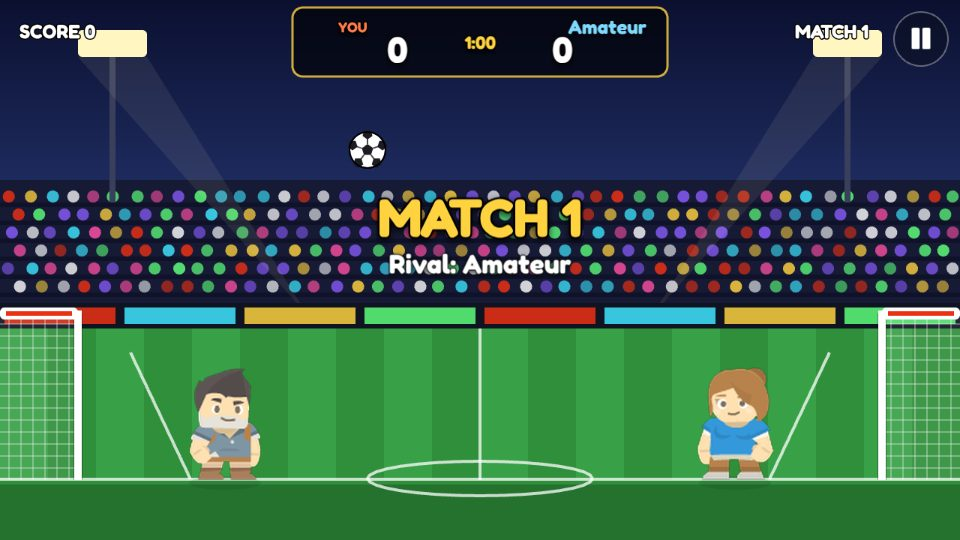
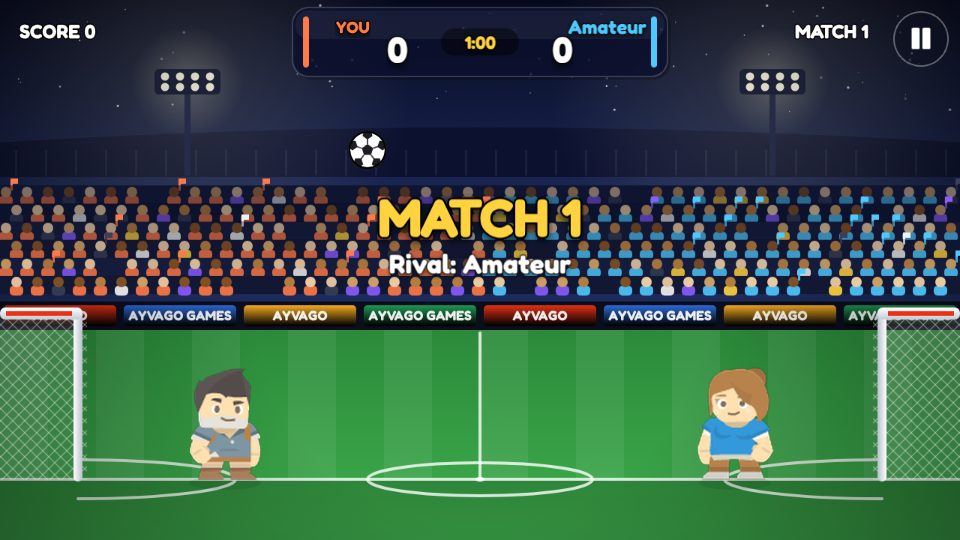
Head Soccer: a lit stadium, a living crowd and juicier hits
- Stadium painted on canvas:
  - night sky with stars and the stadium roof;
  - floodlight towers moved clear of the HUD's corners, with soft glow;
  - AYVAGO ad boards and striped grass;
  - side-view lines: centre circle and arcs before both goals;
  - a vignette.
- A crowd in the stands, fans in each side's colour (orange left,
  cyan right) with flags. Camera flashes twinkle in the stands.
- On a goal the crowd jumps, a storm of flashes goes off and the
  net shakes.
- Goals with depth: shaded diamond-mesh net, rounded posts and
  crossbar.
- Scoreboard as a glass panel with each side's colour stripe and the
  clock in a pill.
- A ring of light on every kick (in the kicker's colour) and header,
  and dust when a player lands.
- The stadium sits below depth 0, so the menu's title and buttons stay
  on top. Version 1.1.0, store art regenerated.

Claude-Session: https://claude.ai/code/session_0175vXZr811A8hQZq6oHnsLr

diff --git a/games/head-soccer/art.ts b/games/head-soccer/art.ts
@@ -36,58 +36,142 @@ export function makeTextures(scene: Phaser.Scene): void {
   g.destroy();
 }
 
-/** Stadium, pitch and both goals (the nets are drawn over the players later by `drawNets`). */
-export function drawPitch(scene: Phaser.Scene): void {
-  const g = scene.add.graphics().setDepth(0);
-  // night sky and stands
-  g.fillGradientStyle(0x0b1030, 0x0b1030, 0x24346e, 0x24346e, 1).fillRect(0, 0, W, 330);
-  g.fillStyle(0x161a35, 1).fillRect(0, 240, W, 170);
-  // crowd: rows of coloured heads
-  const cols = [0xec3013, 0xffd23f, 0x3ee6ff, 0xffffff, 0x5dff7a, 0xff4fa3, 0x8b5cff];
-  let seed = 7;
-  const rnd = () => ((seed = (seed * 16807) % 2147483647) / 2147483647);
-  for (let row = 0; row < 6; row++) {
-    const y = 262 + row * 24;
-    g.fillStyle(0x0f1228, 1).fillRect(0, y + 8, W, 6);
-    for (let x = 10 + (row % 2) * 14; x < W; x += 28) {
-      g.fillStyle(cols[Math.floor(rnd() * cols.length)], 0.55 + rnd() * 0.3).fillCircle(x + rnd() * 6, y, 8);
+/** Team colours: you (left, orange) and the rival (right, cyan); the fans wear them too. */
+export const TEAM = ['#ff7a4a', '#4fc8ff'] as const;
+
+function canvas(scene: Phaser.Scene, key: string, w: number, h: number, draw: (c: CanvasRenderingContext2D) => void): void {
+  if (scene.textures.exists(key)) return;
+  const tex = scene.textures.createCanvas(key, w, h);
+  if (!tex) return;
+  draw(tex.getContext());
+  tex.refresh();
+}
+
+function seeded(seed: number): () => number {
+  let a = seed >>> 0;
+  return () => {
+    a = (a + 0x6d2b79f5) >>> 0;
+    let t = Math.imul(a ^ (a >>> 15), a | 1);
+    t ^= t + Math.imul(t ^ (t >>> 7), t | 61);
+    return ((t ^ (t >>> 14)) >>> 0) / 4294967296;
+  };
+}
+
+/** Night sky, roof, floodlights and the pitch (one canvas); the crowd is its own layer. */
+function paintStadium(c: CanvasRenderingContext2D): void {
+  const r = seeded(9);
+  const sky = c.createLinearGradient(0, 0, 0, 300);
+  sky.addColorStop(0, '#060a1f'); sky.addColorStop(1, '#1d2a5c');
+  c.fillStyle = sky; c.fillRect(0, 0, W, 420);
+  for (let k = 0; k < 70; k++) {
+    c.fillStyle = `rgba(255,255,255,${0.25 + r() * 0.6})`;
+    c.beginPath(); c.arc(r() * W, r() * 150, 0.6 + r() * 1.3, 0, Math.PI * 2); c.fill();
+  }
+  // stadium roof edge
+  c.fillStyle = '#0c1130';
+  c.beginPath(); c.moveTo(0, 190); c.quadraticCurveTo(W / 2, 150, W, 190); c.lineTo(W, 236); c.lineTo(0, 236); c.closePath(); c.fill();
+  c.fillStyle = 'rgba(255,255,255,0.06)';
+  for (let x = 20; x < W; x += 40) c.fillRect(x, 200, 3, 34);
+  // floodlight towers (clear of the HUD in the top corners) and their glow
+  for (const x of [250, W - 250]) {
+    const g = c.createRadialGradient(x, 110, 0, x, 110, 300);
+    g.addColorStop(0, 'rgba(255,248,210,0.38)'); g.addColorStop(0.25, 'rgba(255,248,210,0.12)'); g.addColorStop(1, 'rgba(255,248,210,0)');
+    c.fillStyle = g; c.fillRect(0, 0, W, 460);
+    c.fillStyle = '#2b3152'; c.fillRect(x - 4, 124, 8, 110);
+    c.fillStyle = '#20263f'; c.beginPath(); c.roundRect(x - 44, 92, 88, 34, 6); c.fill();
+    for (let i = 0; i < 4; i++) for (let j = 0; j < 2; j++) {
+      c.fillStyle = '#fffbe4'; c.beginPath(); c.arc(x - 30 + i * 20, 102 + j * 14, 5.5, 0, Math.PI * 2); c.fill();
     }
   }
-  // floodlights
-  for (const x of [150, W - 150]) {
-    g.fillStyle(0x3a3f5c, 1).fillRect(x - 4, 70, 8, 200);
-    g.fillStyle(0xfff6c2, 1).fillRoundedRect(x - 46, 40, 92, 36, 6);
-    g.fillStyle(0xfff6c2, 0.08).fillTriangle(x - 46, 76, x + 46, 76, x + (x < W / 2 ? 260 : -260), 420);
-  }
   // advertising boards
-  g.fillStyle(0x101422, 1).fillRect(0, 404, W, 34);
-  for (let x = 0; x < W; x += 160) g.fillStyle([0xec3013, 0x3ee6ff, 0xffd23f, 0x5dff7a][(x / 160) % 4], 0.85).fillRect(x + 6, 410, 148, 22);
-  // grass with mowing stripes
-  g.fillStyle(0x2f8f3a, 1).fillRect(0, 438, W, 282);
-  for (let k = 0; k < 10; k++) g.fillStyle(0x38a046, 1).fillRect(k * 128, 438, 64, GROUND - 438);
-  g.fillStyle(0x24722e, 1).fillRect(0, GROUND, W, 720 - GROUND);
-  g.fillStyle(0x2f8f3a, 1).fillRect(0, GROUND, W, 6);
-  // lines
-  g.lineStyle(4, 0xffffff, 0.75).lineBetween(W / 2, 438, W / 2, GROUND);
-  g.strokeEllipse(W / 2, GROUND - 2, 300, 46);
-  g.lineBetween(0, GROUND - 1, W, GROUND - 1);
-  g.lineBetween(GOAL_W + 150, GROUND - 1, GOAL_W + 70, 470).lineBetween(W - GOAL_W - 150, GROUND - 1, W - GOAL_W - 70, 470);
+  c.fillStyle = '#0a0d1c'; c.fillRect(0, 402, W, 38);
+  const boards = ['#ec3013', '#2d6cdf', '#ffb020', '#1f9d55'];
+  for (let x = 0, k = 0; x < W; x += 160, k++) {
+    const b = c.createLinearGradient(0, 408, 0, 434);
+    b.addColorStop(0, boards[k % 4]); b.addColorStop(1, '#000000');
+    c.globalAlpha = 0.92; c.fillStyle = b; c.beginPath(); c.roundRect(x + 5, 407, 150, 28, 5); c.fill(); c.globalAlpha = 1;
+    c.fillStyle = 'rgba(255,255,255,0.92)'; c.font = '700 18px Fredoka, Nunito, sans-serif'; c.textAlign = 'center'; c.textBaseline = 'middle';
+    c.fillText(k % 2 ? 'AYVAGO GAMES' : 'AYVAGO', x + 80, 422);
+  }
+  // grass: mown stripes and a soft light from the floodlights
+  const grass = c.createLinearGradient(0, 440, 0, 720);
+  grass.addColorStop(0, '#2b8a3a'); grass.addColorStop(1, '#3fae4d');
+  c.fillStyle = grass; c.fillRect(0, 440, W, 280);
+  for (let k = 0; k < 10; k++) { c.fillStyle = 'rgba(255,255,255,0.07)'; c.fillRect(k * 128, 440, 64, GROUND - 440); }
+  c.fillStyle = 'rgba(0,0,0,0.18)'; c.fillRect(0, GROUND, W, 720 - GROUND);
+  // lines: touchline, halfway line, centre circle and the arcs before both goals
+  c.strokeStyle = 'rgba(255,255,255,0.8)'; c.lineWidth = 4; c.lineCap = 'round';
+  c.beginPath(); c.moveTo(0, GROUND - 1); c.lineTo(W, GROUND - 1); c.stroke();
+  c.beginPath(); c.moveTo(W / 2, 444); c.lineTo(W / 2, GROUND); c.stroke();
+  c.beginPath(); c.ellipse(W / 2, GROUND - 1, 150, 22, 0, Math.PI, Math.PI * 2); c.stroke();
+  c.beginPath(); c.ellipse(W / 2, GROUND - 1, 150, 22, 0, 0, Math.PI); c.stroke();
+  c.fillStyle = '#ffffff'; c.beginPath(); c.ellipse(W / 2, GROUND - 1, 7, 3, 0, 0, Math.PI * 2); c.fill();
+  for (const left of [true, false]) {
+    const gx = left ? GOAL_W : W - GOAL_W;
+    c.beginPath(); c.ellipse(gx, GROUND - 1, 210, 26, 0, left ? -Math.PI / 2 : Math.PI / 2, left ? Math.PI / 2 : Math.PI * 1.5, false); c.stroke();
+  }
+  // vignette
+  const v = c.createRadialGradient(W / 2, 400, 300, W / 2, 400, 820);
+  v.addColorStop(0, 'rgba(0,0,0,0)'); v.addColorStop(1, 'rgba(0,0,0,0.42)');
+  c.fillStyle = v; c.fillRect(0, 0, W, 720);
+}
+
+/** The crowd in the stands: the fans on each half wear their side's colour. */
+function paintCrowd(c: CanvasRenderingContext2D): void {
+  const r = seeded(4);
+  const skins = ['#f5d0a9', '#e0ac69', '#c68642', '#8d5524', '#ffdbac'];
+  const others = ['#f3f2f2', '#ffd23f', '#3a3f5a', '#8b5cff'];
+  for (let row = 0; row < 6; row++) {
+    const y = 26 + row * 24;
+    c.fillStyle = row % 2 ? '#141936' : '#181e40';
+    c.fillRect(0, y - 14, W, 24);
+    for (let x = 8 + (row % 2) * 14; x < W; x += 28) {
+      if (r() < 0.05) continue;
+      const side = x < W / 2 ? 0 : 1;
+      const shirt = r() < 0.75 ? TEAM[side] : others[Math.floor(r() * others.length)];
+      c.fillStyle = shirt;
+      c.beginPath(); c.roundRect(x - 9, y - 1, 18, 13, 5); c.fill();
+      c.fillStyle = skins[Math.floor(r() * skins.length)];
+      c.beginPath(); c.arc(x, y - 6, 7, 0, Math.PI * 2); c.fill();
+      if (r() < 0.12) { c.fillStyle = shirt; c.fillRect(x + 6, y - 22, 3, 14); c.fillRect(x + 6, y - 24, 10, 7); }   // a flag
+    }
+    c.fillStyle = `rgba(6,10,31,${0.5 * (1 - row / 6)})`;
+    c.fillRect(0, y - 15, W, 26);
+  }
+}
+
+/** Stadium, pitch and the crowd. Returns the crowd so a goal can make it jump. */
+export function drawPitch(scene: Phaser.Scene): Phaser.GameObjects.Image {
+  canvas(scene, 'hs-stadium', W, 720, paintStadium);
+  canvas(scene, 'hs-crowd', W, 166, paintCrowd);
+  // below depth 0, so the menu's own title and buttons always sit on top
+  scene.add.image(0, 0, 'hs-stadium').setOrigin(0).setDepth(-3);
+  return scene.add.image(0, 236, 'hs-crowd').setOrigin(0).setDepth(-2);
 }
 
 /** Nets and posts: drawn above the players so the ball looks inside the goal. */
-export function drawNets(scene: Phaser.Scene, depth: number): void {
-  const g = scene.add.graphics().setDepth(depth);
-  for (const left of [true, false]) {
-    const x0 = left ? 0 : W - GOAL_W, x1 = left ? GOAL_W : W;
-    g.fillStyle(0xffffff, 0.08).fillRect(x0, GOAL_TOP, GOAL_W, GROUND - GOAL_TOP);
-    g.lineStyle(2, 0xffffff, 0.32);
-    for (let x = x0 + 12; x < x1; x += 16) g.lineBetween(x, GOAL_TOP, x, GROUND);
-    for (let y = GOAL_TOP + 14; y < GROUND; y += 16) g.lineBetween(x0, y, x1, y);
-    // crossbar and front post
-    const front = left ? GOAL_W : W - GOAL_W;
-    g.fillStyle(0x000000, 0.35).fillRect(front - 6, GOAL_TOP, 12, GROUND - GOAL_TOP);
-    g.fillStyle(0xffffff, 1).fillRect(front - 5, GOAL_TOP - 4, 10, GROUND - GOAL_TOP + 4);
-    g.fillStyle(0xffffff, 1).fillRoundedRect(x0, GOAL_TOP - 8, GOAL_W, 16, 6);
-    g.fillStyle(0xec3013, 1).fillRect(x0 + 8, GOAL_TOP - 3, GOAL_W - 16, 6);
-  }
+export function drawNets(scene: Phaser.Scene, depth: number): Phaser.GameObjects.Image[] {
+  canvas(scene, 'hs-net', GOAL_W + 12, GROUND - GOAL_TOP + 16, (c) => {
+    const h = GROUND - GOAL_TOP, x0 = 0;
+    // net: shaded inside, a diamond mesh
+    const g = c.createLinearGradient(0, 8, 0, h + 8);
+    g.addColorStop(0, 'rgba(255,255,255,0.14)'); g.addColorStop(1, 'rgba(255,255,255,0.05)');
+    c.fillStyle = g; c.fillRect(x0, 8, GOAL_W, h);
+    c.strokeStyle = 'rgba(255,255,255,0.35)'; c.lineWidth = 1.5;
+    for (let k = -h; k < GOAL_W + h; k += 16) {
+      c.beginPath(); c.moveTo(x0 + k, 8); c.lineTo(x0 + k + h, 8 + h); c.stroke();
+      c.beginPath(); c.moveTo(x0 + k + h, 8); c.lineTo(x0 + k, 8 + h); c.stroke();
+    }
+    // front post, rounded and shaded
+    const px = GOAL_W - 6;
+    const pg = c.createLinearGradient(px, 0, px + 12, 0);
+    pg.addColorStop(0, '#ffffff'); pg.addColorStop(1, '#b8bfcc');
+    c.fillStyle = pg; c.beginPath(); c.roundRect(px, 2, 12, h + 8, 6); c.fill();
+    // crossbar with the red stripe
+    const cg = c.createLinearGradient(0, 0, 0, 16);
+    cg.addColorStop(0, '#ffffff'); cg.addColorStop(1, '#c4cad6');
+    c.fillStyle = cg; c.beginPath(); c.roundRect(0, 0, GOAL_W + 6, 16, 7); c.fill();
+    c.fillStyle = '#ec3013'; c.fillRect(8, 5, GOAL_W - 16, 6);
+  });
+  return [true, false].map((left) => scene.add.image(left ? 0 : W, GOAL_TOP - 8, 'hs-net').setOrigin(left ? 0 : 1, 0).setFlipX(!left).setDepth(depth));
 }

diff --git a/games/head-soccer/PlayScene.ts b/games/head-soccer/PlayScene.ts
@@ -7,7 +7,7 @@ import {
   W, GROUND, GOAL_W, GOAL_TOP, BALL_R, CHAR_SCALE, KICK_ON, KICK_POSE_END, AI_LEVELS,
   footOffset, newWorld, newPlayer, resetPlayers, dropBall, step, think, movePlayer, separate, type World, type Input, type Events, type Player,
 } from './sim';
-import { makeTextures, drawPitch, drawNets } from './art';
+import { makeTextures, drawPitch, drawNets, TEAM } from './art';
 
 const MATCH_S = 60;
 const SEND_MS = 50;              // ~20 messages per second each way
@@ -88,6 +88,11 @@ export class PlayScene extends ArcadeScene {
   // drawing
   private sprites: Phaser.GameObjects.Image[] = [];
   private shadows: Phaser.GameObjects.Ellipse[] = [];
+  private crowd!: Phaser.GameObjects.Image;
+  private nets: Phaser.GameObjects.Image[] = [];
+  private flashes!: Phaser.GameObjects.Graphics;
+  private sparks: { x: number; y: number; life: number }[] = [];
+  private wasGround = [true, true];
   private ball!: Phaser.GameObjects.Image;
   private ballShadow!: Phaser.GameObjects.Ellipse;
   private trail!: Phaser.GameObjects.Particles.ParticleEmitter;
@@ -119,7 +124,9 @@ export class PlayScene extends ArcadeScene {
     this.lastEv = []; this.lastGoals = 0; this.walkT = [0, 0]; this.lastTick = -1;
     this.sprites = []; this.shadows = []; this.controls = undefined;
 
-    drawPitch(this);
+    this.crowd = drawPitch(this);
+    this.flashes = this.add.graphics().setDepth(-1);
+    this.sparks = []; this.wasGround = [true, true];
     for (let i = 0; i < 2; i++) {
       this.shadows.push(this.add.ellipse(0, GROUND + 4, 96, 18, 0x000000, 0.3).setDepth(2));
       this.sprites.push(this.add.image(0, GROUND, 'p1-stand').setOrigin(0.5, CHARACTER_FRAME.originY).setScale(CHAR_SCALE).setDepth(10 + i));
@@ -130,14 +137,20 @@ export class PlayScene extends ArcadeScene {
       speed: 0, lifespan: 220, scale: { start: 2.6, end: 0 }, alpha: { start: 0.5, end: 0 }, tint: 0xffd23f, frequency: 18, emitting: false,
     }).setDepth(14);
     this.ball = this.add.image(W / 2, 200, 'hs-ball').setDepth(15);
-    drawNets(this, 20);
+    this.nets = drawNets(this, 20);
 
     // scoreboard
+    // scoreboard: a glass panel with each side's colour, the clock in a pill between the scores
     const sb = this.add.graphics().setDepth(30);
-    sb.fillStyle(0x000000, 0.6).fillRoundedRect(W / 2 - 250, 10, 500, 92, 14);
-    sb.lineStyle(3, 0xffd23f, 0.8).strokeRoundedRect(W / 2 - 250, 10, 500, 92, 14);
-    txt(this, W / 2 - 170, 36, t('you'), { title: true, size: 16, color: '#ff7a4a' }).setDepth(31);
-    this.nameThem = txt(this, W / 2 + 170, 36, '', { size: 22, color: '#7fd8ff' }).setDepth(31);
+    sb.fillStyle(0x000000, 0.28).fillRoundedRect(W / 2 - 246, 14, 500, 92, 22);
+    sb.fillStyle(0x0b1030, 0.78).fillRoundedRect(W / 2 - 250, 10, 500, 92, 22);
+    sb.fillStyle(0xffffff, 0.06).fillRoundedRect(W / 2 - 246, 14, 492, 38, 18);
+    sb.fillStyle(Phaser.Display.Color.HexStringToColor(TEAM[0]).color, 1).fillRoundedRect(W / 2 - 236, 22, 8, 68, 4);
+    sb.fillStyle(Phaser.Display.Color.HexStringToColor(TEAM[1]).color, 1).fillRoundedRect(W / 2 + 228, 22, 8, 68, 4);
+    sb.fillStyle(0x000000, 0.45).fillRoundedRect(W / 2 - 52, 38, 104, 36, 18);
+    sb.lineStyle(2, 0xffffff, 0.18).strokeRoundedRect(W / 2 - 250, 10, 500, 92, 22);
+    txt(this, W / 2 - 170, 36, t('you'), { title: true, size: 18, color: TEAM[0] }).setDepth(31);
+    this.nameThem = txt(this, W / 2 + 170, 36, '', { size: 22, color: TEAM[1] }).setDepth(31);
     this.scoreMe = txt(this, W / 2 - 110, 66, '0', { title: true, size: 40, color: '#ffffff' }).setDepth(31);
     this.scoreThem = txt(this, W / 2 + 110, 66, '0', { title: true, size: 40, color: '#ffffff' }).setDepth(31);
     this.clockText = txt(this, W / 2, 56, '1:00', { title: true, size: 24, color: '#ffd23f' }).setDepth(31);
@@ -312,6 +325,7 @@ export class PlayScene extends ArcadeScene {
   // ---------------------------------------------------------------- loop
   updateGame(_time: number, delta: number): void {
     const dt = delta / 1000;
+    this.drawFlashes(dt);
     const local = this.readInput();
     if (this.online && !this.host) { this.guestUpdate(local, dt); return; }
 
@@ -414,6 +428,9 @@ export class PlayScene extends ArcadeScene {
       // the frame is centred on the feet, so flipping it mirrors the kick for a player facing left
       s.setTexture(`${prefix}-${pose}`).setPosition(p.x, p.y + hop).setFlipX(p.face < 0);
       s.setAngle(p.ground || kicking ? 0 : Phaser.Math.Clamp(p.vx * 0.012, -6, 6));
+      // dust when a player lands
+      if (p.ground && !this.wasGround[i]) this.dust(p.x, 10);
+      this.wasGround[i] = p.ground;
       const sh = this.shadows[i];
       const air = Math.max(0, GROUND - p.y);
       sh.setPosition(p.x, GROUND + 4).setScale(Math.max(0.4, 1 - air / 400)).setAlpha(0.3 * Math.max(0.3, 1 - air / 300));
@@ -456,11 +473,54 @@ export class PlayScene extends ArcadeScene {
     this.tweens.add({ targets: [this.banner, this.sub], alpha: 0, duration: 250, onComplete: () => { this.banner.setVisible(false); this.sub.setVisible(false); } });
   }
 
+  /** A ring of light where the ball was struck. */
+  private impact(x: number, y: number, color: number, k = 1): void {
+    const ring = this.add.graphics().setDepth(16).setPosition(x, y);
+    ring.lineStyle(5, color, 0.9).strokeCircle(0, 0, 18);
+    this.tweens.add({ targets: ring, scale: 2.6 * k, alpha: 0, duration: 260, ease: 'Quad.easeOut', onComplete: () => ring.destroy() });
+    const glow = this.add.image(x, y, 'hs-dot').setDepth(16).setScale(6 * k).setTint(0xffffff).setAlpha(0.8).setBlendMode(Phaser.BlendModes.ADD);
+    this.tweens.add({ targets: glow, scale: 1, alpha: 0, duration: 200, onComplete: () => glow.destroy() });
+  }
+
+  /** A puff of dust at a player's feet. */
+  private dust(x: number, n: number): void {
+    for (let k = 0; k < n; k++) {
+      const d = this.add.circle(x + rng.int(-24, 24), GROUND - 2, rng.int(4, 9), 0xd8f0c8, 0.55).setDepth(9);
+      this.tweens.add({ targets: d, x: d.x + rng.int(-40, 40), y: d.y - rng.int(6, 22), alpha: 0, scale: 1.8, duration: rng.int(320, 520), ease: 'Quad.easeOut', onComplete: () => d.destroy() });
+    }
+  }
+
+  /** Camera flashes in the stands: a few now and then, a storm after a goal. */
+  private crowdFlash(n: number): void {
+    for (let k = 0; k < n; k++) this.sparks.push({ x: rng.int(10, W - 10), y: rng.int(250, 396), life: 1 + Math.random() * 0.5 });
+  }
+
+  private drawFlashes(dt: number): void {
+    if (Math.random() < dt * 2.5) this.crowdFlash(1);
+    const g = this.flashes;
+    g.clear();
+    for (const f of this.sparks) {
+      f.life -= dt * 3.5;
+      if (f.life <= 0) continue;
+      const a = Math.min(1, f.life);
+      g.fillStyle(0xffffff, 0.22 * a).fillCircle(f.x, f.y + (this.crowd.y - 236), 10 * a);
+      g.fillStyle(0xffffff, a).fillCircle(f.x, f.y + (this.crowd.y - 236), 2.5);
+    }
+    this.sparks = this.sparks.filter((f) => f.life > 0);
+  }
+
   private goalFx(mine: boolean, x: number): void {
     const gx = x < W / 2 ? GOAL_W / 2 : W - GOAL_W / 2;
     burst(this, gx, (GOAL_TOP + GROUND) / 2, mine ? [0xffd23f, 0xff7a4a, 0xffffff] : [0x3ee6ff, 0xffffff], 50, 520);
     shake(this, 0.02, 400);
     flash(this, mine ? 0xffd23f : 0x3ee6ff, 160);
+    // the net shakes, the crowd jumps and a storm of camera flashes goes off
+    const net = this.nets[x < W / 2 ? 0 : 1];
+    if (net) { this.tweens.killTweensOf(net); net.setX(x < W / 2 ? 0 : W); this.tweens.add({ targets: net, x: net.x + (x < W / 2 ? -7 : 7), duration: 60, yoyo: true, repeat: 5 }); }
+    this.tweens.killTweensOf(this.crowd);
+    this.crowd.setY(236);
+    this.tweens.add({ targets: this.crowd, y: 228, duration: 140, yoyo: true, repeat: 5, ease: 'Sine.easeOut' });
+    this.crowdFlash(60);
     this.sfx(mine ? 'goal' : 'concede', { volume: 0.75, exact: true });
     this.showBanner(t('goalBanner'), mine ? '#ffd23f' : '#7fd8ff', mine ? t('goalYou') : t('goalThem'));
     this.time.delayedCall(1700, () => { if (this.phase !== 'end' && !this.isOver) this.hideBanner(); });
@@ -483,12 +543,13 @@ export class PlayScene extends ArcadeScene {
       if (grew(i)) {
         this.sfxAt('kick', bx, { volume: 0.8 });
         burst(this, bx, by, [0xffffff, 0xffd23f], 14, 300);
+        this.impact(bx, by, Phaser.Display.Color.HexStringToColor(TEAM[local] ?? TEAM[0]).color);
         shake(this, 0.006, 100);
       }
       // the online guest plays its own swing and jump when it presses (predictOwn)
       const own = ownLocal && i === 1;
       if (grew(2 + i) && !own) this.sfxAt('swing', px, { volume: 0.35 });
-      if (grew(4 + i)) { this.sfxAt('head', bx, { volume: 0.6 }); burst(this, bx, by, [0xffffff], 8, 200); }
+      if (grew(4 + i)) { this.sfxAt('head', bx, { volume: 0.6 }); burst(this, bx, by, [0xffffff], 8, 200); this.impact(bx, by, 0xffffff, 0.7); }
       if (grew(6 + i) && !own) this.sfxAt('jump', px, { volume: 0.35 });
     }
     if (grew(8)) { this.sfxAt('post', bx, { volume: 0.7 }); shake(this, 0.008, 140); burst(this, bx, by - 20, [0xffffff, 0xcccccc], 10, 220); }

diff --git a/platform/arcade-catalog.ts b/platform/arcade-catalog.ts
@@ -479,6 +479,7 @@ export const ARCADE_GAMES: SeedGame[] = [
     tags: ['multiplayer', 'head', 'soccer', 'retro'],
     orientation: 'landscape',
     input: ['touch', 'keyboard', 'mouse'],
+    version: '1.1.0',
     addedAt: '2026-10-30',
     multiplayer: true,
   }),
